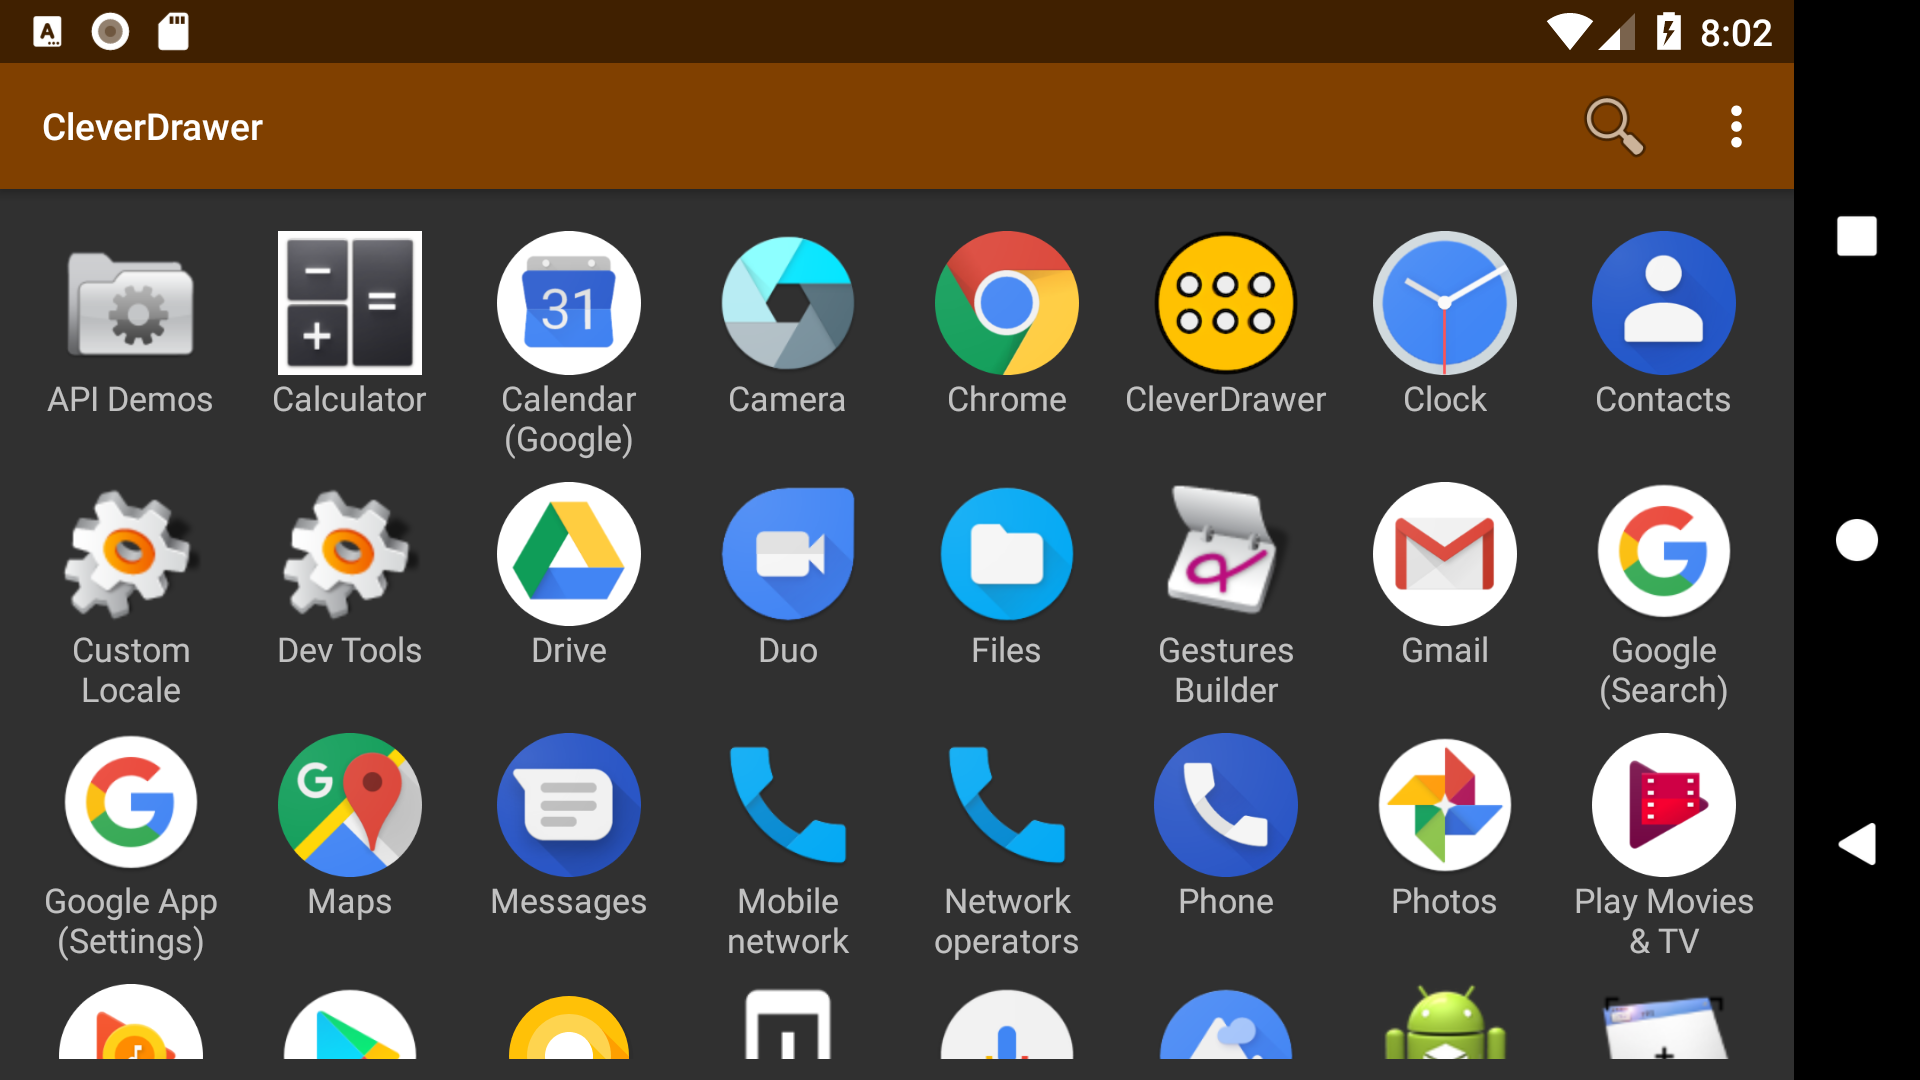
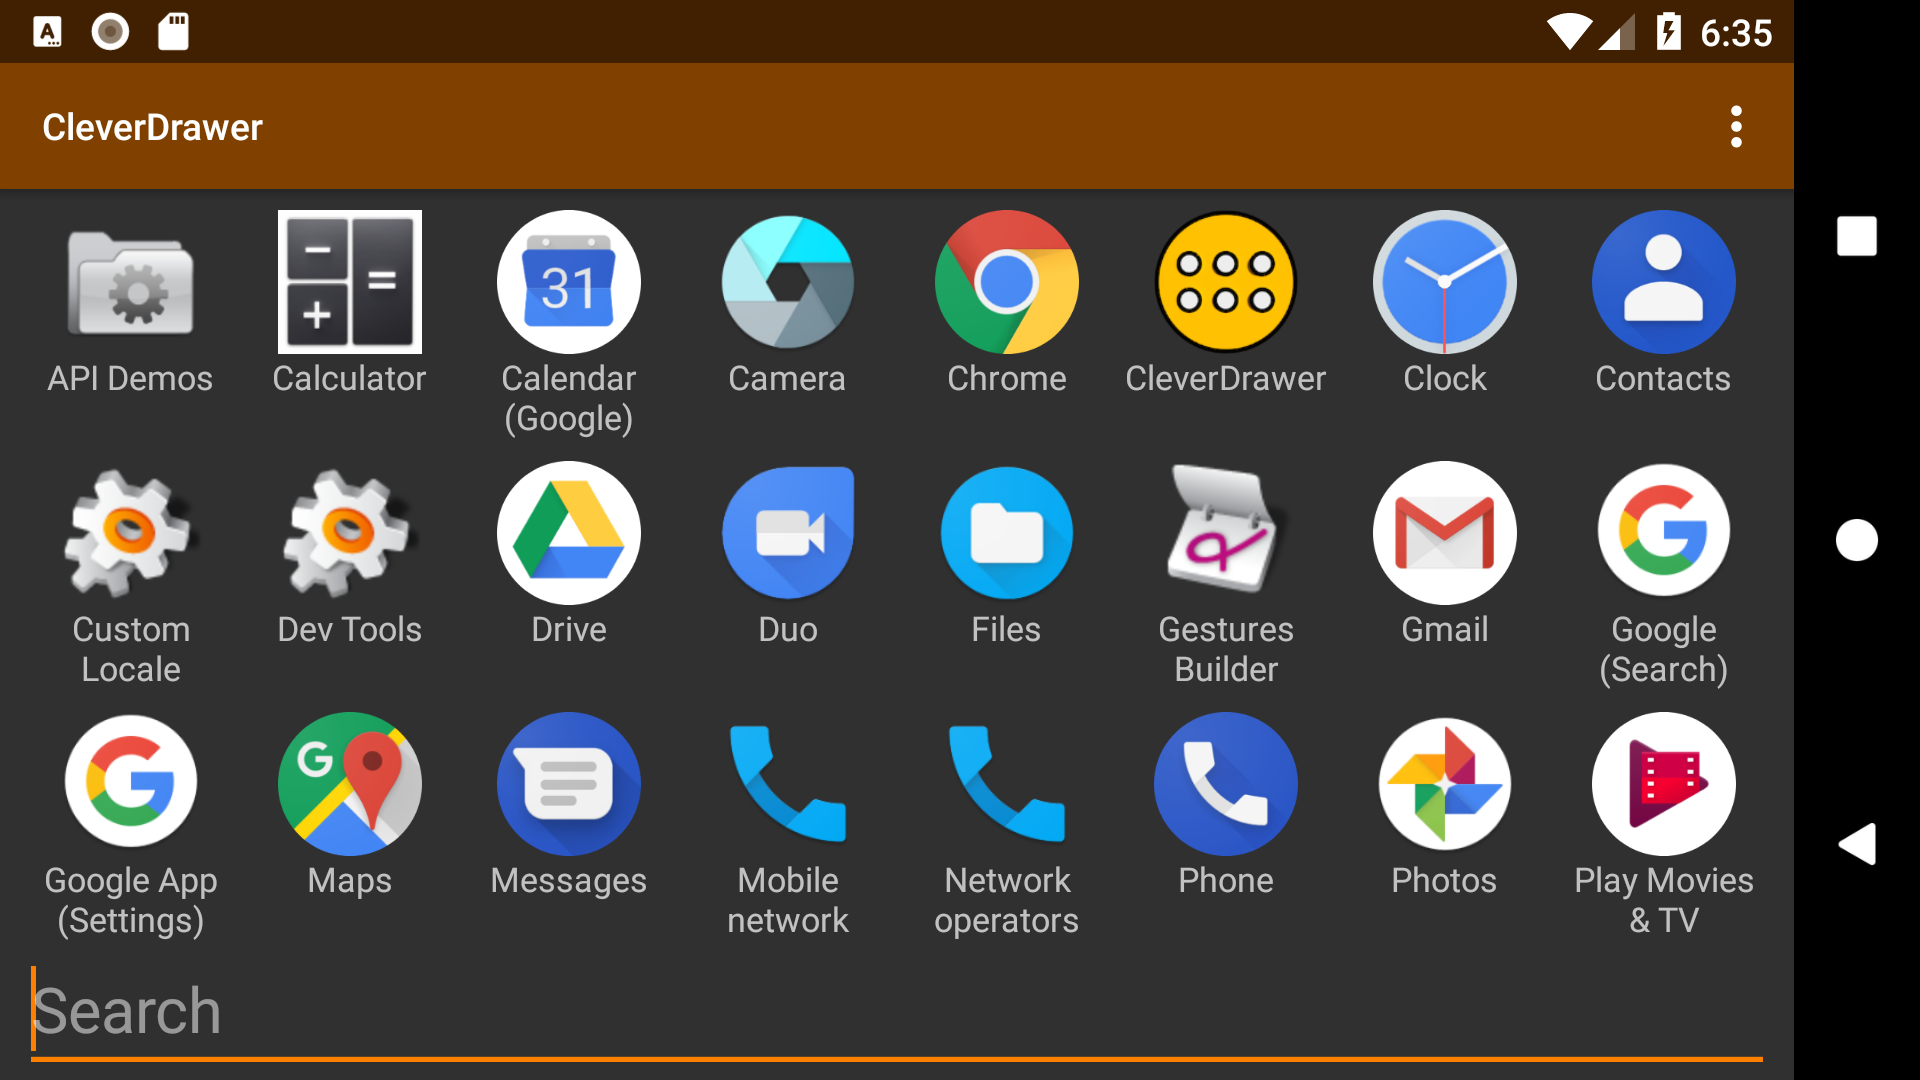
Make search box permanently visible on bottom
The intention here is to improve discoverability of the search box.

diff --git a/app/src/main/java/com/gmail/walles/johan/cleverdrawer/MainActivity.java b/app/src/main/java/com/gmail/walles/johan/cleverdrawer/MainActivity.java
@@ -40,9 +40,6 @@ import android.support.v7.app.AppCompatActivity;
 import android.support.v7.widget.Toolbar;
 import android.view.Menu;
 import android.view.MenuItem;
-import android.view.View;
-import android.view.inputmethod.InputMethodManager;
-import android.widget.EditText;
 
 import com.crashlytics.android.answers.CustomEvent;
 
@@ -58,16 +55,12 @@ public class MainActivity extends AppCompatActivity {
     @Nullable
     private LaunchableAdapter launchableAdapter;
 
-    private EditText searchBox;
-
     @Override
     protected void onCreate(Bundle savedInstanceState) {
         super.onCreate(savedInstanceState);
         setContentView(R.layout.activity_main);
         Toolbar toolbar = findViewById(R.id.toolbar);
         setSupportActionBar(toolbar);
-
-        searchBox = findViewById(R.id.searchBox);
     }
 
     @Override
@@ -101,34 +94,12 @@ public class MainActivity extends AppCompatActivity {
         // as you specify a parent activity in AndroidManifest.xml.
         int id = item.getItemId();
 
-        //noinspection SimplifiableIfStatement
         if (id == R.id.action_contact_developer) {
             emailDeveloper();
             return true;
         }
 
-        if (id == R.id.action_search) {
-            // Toggle the MainActivityFragment search bar
-            InputMethodManager imm = (InputMethodManager)getSystemService(Context.INPUT_METHOD_SERVICE);
-            assert imm != null;
-            if (searchBox.getVisibility() == View.VISIBLE) {
-                searchBox.setVisibility(View.GONE);
-                searchBox.setText("");
-
-                // Close soft keyboard if open, from: https://stackoverflow.com/a/1109108/473672
-                imm.hideSoftInputFromWindow(searchBox.getWindowToken(), 0);
-            } else {
-                searchBox.setText("");
-                searchBox.setVisibility(View.VISIBLE);
-                searchBox.requestFocus();
-
-                // From: https://stackoverflow.com/a/8991563/473672
-                imm.showSoftInput(searchBox, InputMethodManager.SHOW_IMPLICIT);
-            }
-
-            return true;
-        }
-
+        Timber.w("Got unrecognized options item ID %d", id);
         return super.onOptionsItemSelected(item);
     }
 

diff --git a/README.md b/README.md
@@ -30,8 +30,7 @@ also a good way of researching Travis problems locally.
 5. `git push --tags`
 
 # TODO Before First Public Release
-* Add an About entry in the ... menu
-* Back button should cancel ongoing search
+* Put a clear-the-search-box button inside the search box.
 
 # TODO Misc
 * Sort recently installed apps earlier
@@ -138,3 +137,5 @@ see if we get crash reports)
 * Improve readability by updating color scheme & icon
 * Get a real-world launch history and test the prediction algorithm
 using that
+* Put a search box permanently at the bottom and remove the search
+button.
